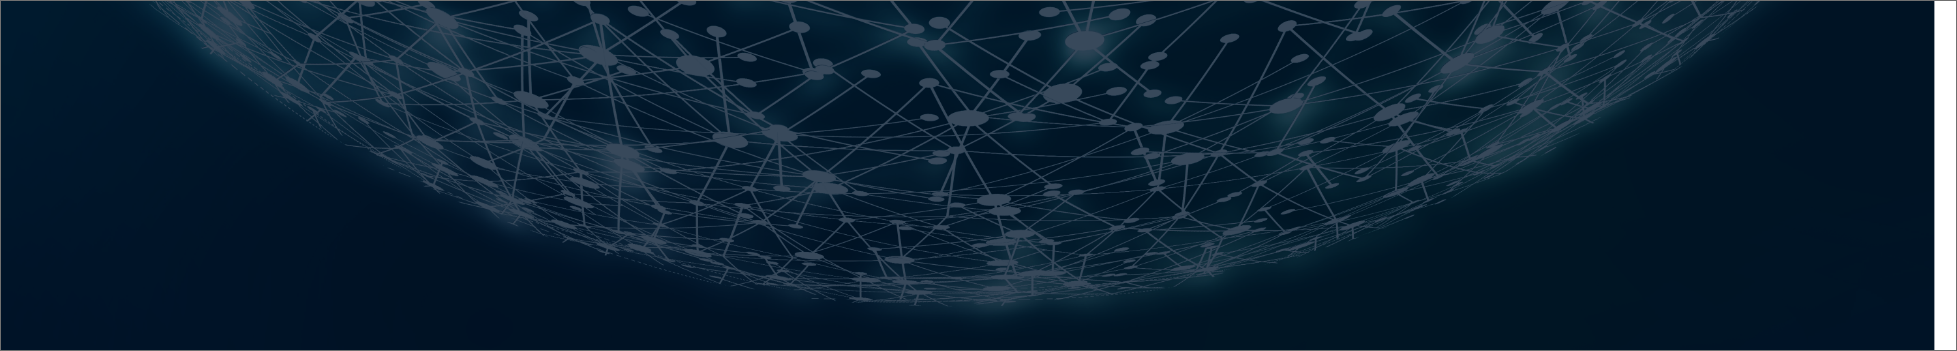
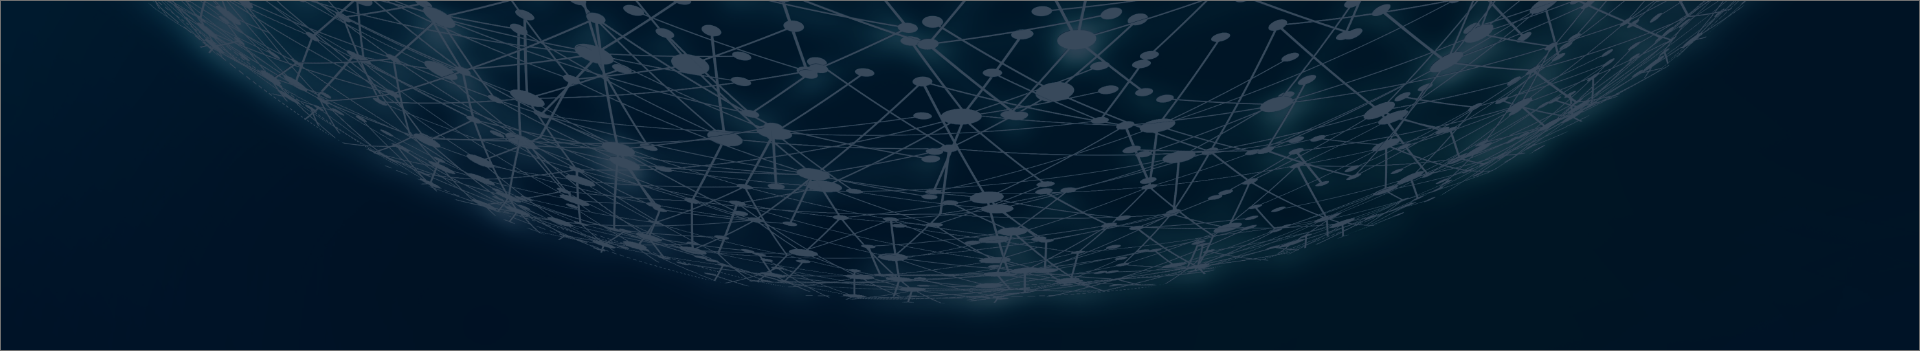
newbackground

Changed region(s): [[0.0938, 0.0, 0.9062, 0.8832], [0.9688, 0.0, 1.0, 0.9972]]

diff --git a/styles.css b/styles.css
@@ -1,7 +1,8 @@
-/* * {
+/* *{
   border: red solid 1px;
-} */
-body {
+}  */
+body { 
+  /* position: absolute; */
   margin: 0;
   font-family: "Open Sans", sans-serif;
   display: flex;
@@ -224,58 +225,74 @@ hr {
   left: 0;
   height: 100%;
   width: 100%;
-  background-image: url(/images/globe2.png);
+  background-image: url(/images/Group\ 21.png);
   background-position: center;
-  background-size: contain;
+  background-size:cover;
   background-repeat: no-repeat;
   display: flex;
   flex-direction: column;
   align-content: center;
-}
-.swiper {
-  width: 1088px;
-  padding-top: 50px;
-  padding-bottom: 50px;
-  align-items: center;
   
 }
 
+.swiper {
+  width: 950px;
+  padding-top: 50px;
+  padding-bottom: 50px;
+  align-items: center;
+}
+
 .swiper-slide {
-  background-position: center;
-  background-size: contain;
-  width:50%;
+  margin-top: 100px;
+  /* background-position: center; */
+  background-size: cover;
+  width:100%;
   height: 100%;
   align-items: center;
   display: flex;
   flex-direction: column;
-  /* justify-content:left; */
+  box-shadow: #001125;
   
 }
 
 .swiper-slide img {
   display: flex;
-  width: 70%;
+  justify-content: center;
+  width: 80%;
   align-items: center;
   margin: 0;
+  z-index: 10;
+  border-radius: 10px;
+  border: #e6e6e6 solid 1px;
+  /* -webkit-box-shadow: 0px 58px 100px -53px rgba(130, 130, 130, 1);
+  -moz-box-shadow: 0px 58px 100px -53px rgba(130, 130, 130, 1);
+  box-shadow: 0px 58px 100px -53px rgba(130, 130, 130, 1); */   
 }
+
+.swiper-slide p {
+  width: 250px;
+  margin-top: 10px;
+  text-align: center;
+  font: normal normal 600 15px/30px "Open Sans";
+  letter-spacing: 0px;
+  color: #001125;
+  text-transform: uppercase;
+  opacity: 1;
+  }
 
 .swiper-button {
   display: flex;
+  justify-content: space-between;
+  gap: 50px;
   width: 40px;
   height: 40px;
   border-radius: 50%;
   background-color: inherit;
   transform: translateY(-50%);
   transition: 0.3s;
-  color: #000;
+  color: rgb(255, 255, 255);
   
 }
-/* .swiper-button-prev {
-  position: relative;
-  left: 200px;
-  top: -350px;
-} */
-
 .swiper-button:hover {
   background-color: inherit;
 }
@@ -290,6 +307,58 @@ hr {
   display: none;
 }
 
+.swiper-pagination {
+  margin-bottom: 20px;
+  width: px;
+}
+.swiper-pagination-bullet{
+  width: 20px;
+  height: 20px;
+}
+.swiper-pagination-bullet-active{
+  background:  #1CC6A0;
+}
+.slogan {
+  position: relative;
+  top: 100px;
+  left: 0;
+  height: 575px;
+  width: 100%;
+  background-image: url(/images/2021-11-04\ \(2\).png);
+  background-position: center;
+  background-size: cover;
+  background-repeat: no-repeat;
+  display: flex;
+  flex-direction: column;
+  align-items: center;
+}
+.adslogan {
+  width: 1088px;
+  display: flex;
+  flex-direction: column;
+  position: absolute;
+  padding: 0;
+  margin-top: 170px;
+}
+
+.adslogan h3 {
+  text-align: left;
+font: normal normal 600 50px/75px Open Sans;
+letter-spacing: 0px;
+color: #E4E4E4;
+}
+#as1 {
+  text-align: left;
+  font: normal normal bold 60px/75px Open Sans;
+  letter-spacing: 0px;
+  color: #1CC6A0; 
+}
+.adslogan p{
+  text-align: left;
+font: normal normal bold 30px/75px Open Sans;
+letter-spacing: 0px;
+color: #F8F8F8;
+}
 @media screen and (max-width: 1480px) {
   .container,
   main {

diff --git a/index.html b/index.html
@@ -125,34 +125,49 @@
     <div class="swiper mySwiper">
       <div class="swiper-wrapper">
         <div class="swiper-slide">
+          <img src="/images/Okno główne – 2.png" alt="" />
+          <p>Okno główne</p>
+        </div>
+        <div class="swiper-slide">
           <img src="/images/Artboard – 125.png" alt="" />
-          <p>ddddddd</p>
+          <p>Pełna dokumentacja zdjęciowa</p>
         </div>
         <div class="swiper-slide">
           <img src="/images/Artboard – 138.png" alt="" />
-        </div>
-        <div class="swiper-slide">
-          <img src="/images/Artboard – 154.png" alt="" />
-        </div>
+          <p>Pomiary instalacji</p>
+        </div> 
         <div class="swiper-slide">
           <img src="/images/Artboard – 191.png" alt="" />
+          <p>Lista kroków do wykonania</p>
         </div>
         <div class="swiper-slide">
           <img src="/images/Artboard – 249.png" alt="" />
+          <p>Regulacja przepływów</p>
+        </div>
+        <div class="swiper-slide">
+          <img src="/images/Artboard – 154.png" alt="" />
+          <p>Pomiary instalaji</p>
         </div>
         <div class="swiper-slide">
           <img src="/images/Custom Size – 99.png" alt="" />
-        </div>
-        <div class="swiper-slide">
-          <img src="/images/Okno główne – 2.png" alt="" />
+          <p>Lista urządzeń</p>
         </div>
       </div>
-      <div class="swiper-button swiper-button-prev"></div>
-      <div class="swiper-button swiper-button-next"></div>
+      
       <div class="swiper-pagination"></div>
+      <div class="swiper-button swiper-button-prev"></div>
+    <div class="swiper-button swiper-button-next"></div>
     </div>
     
   </section>
+  <section class="slogan">
+    <div class="adslogan">
+<h3>
+ <span id="as1"> Zdobądź przewagę </span> nad konkurencją dzięki <span id="as1"> nowoczesnym rozwiązaniom </span></h3>
+ <p>inpraX - tylko dla profesionalistów</p>
+</div>
+  </section>
+  <section></section>
   <script src="./index.mjs" type="module"></script>
   </body>
 </html>
